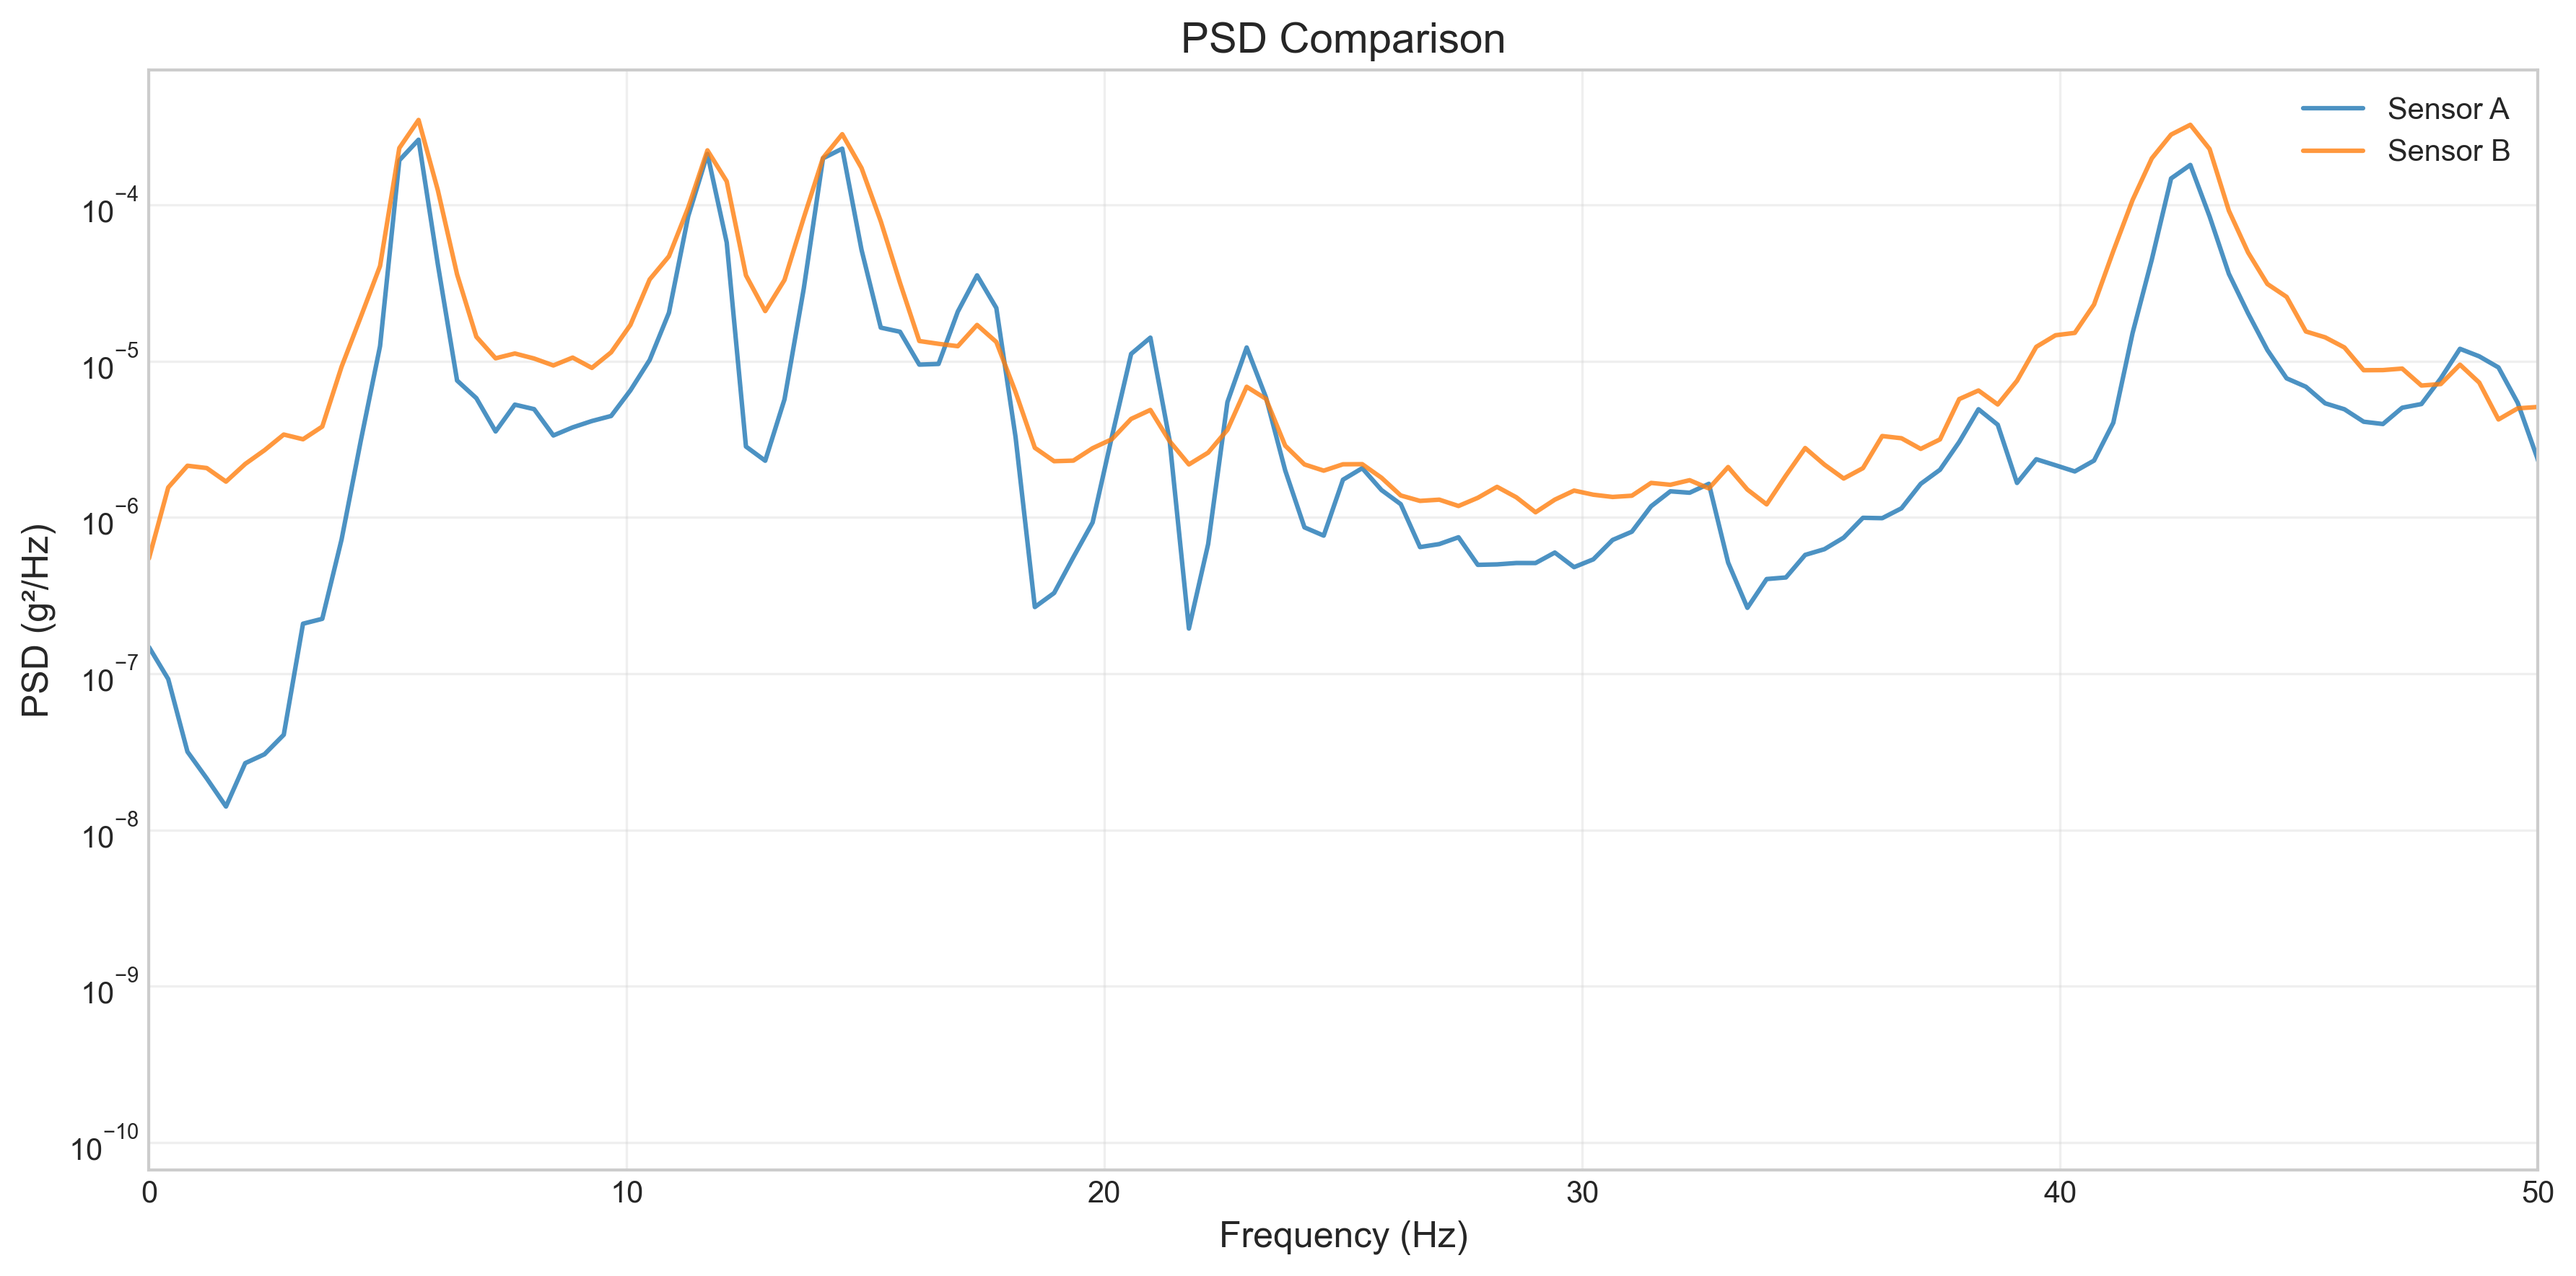
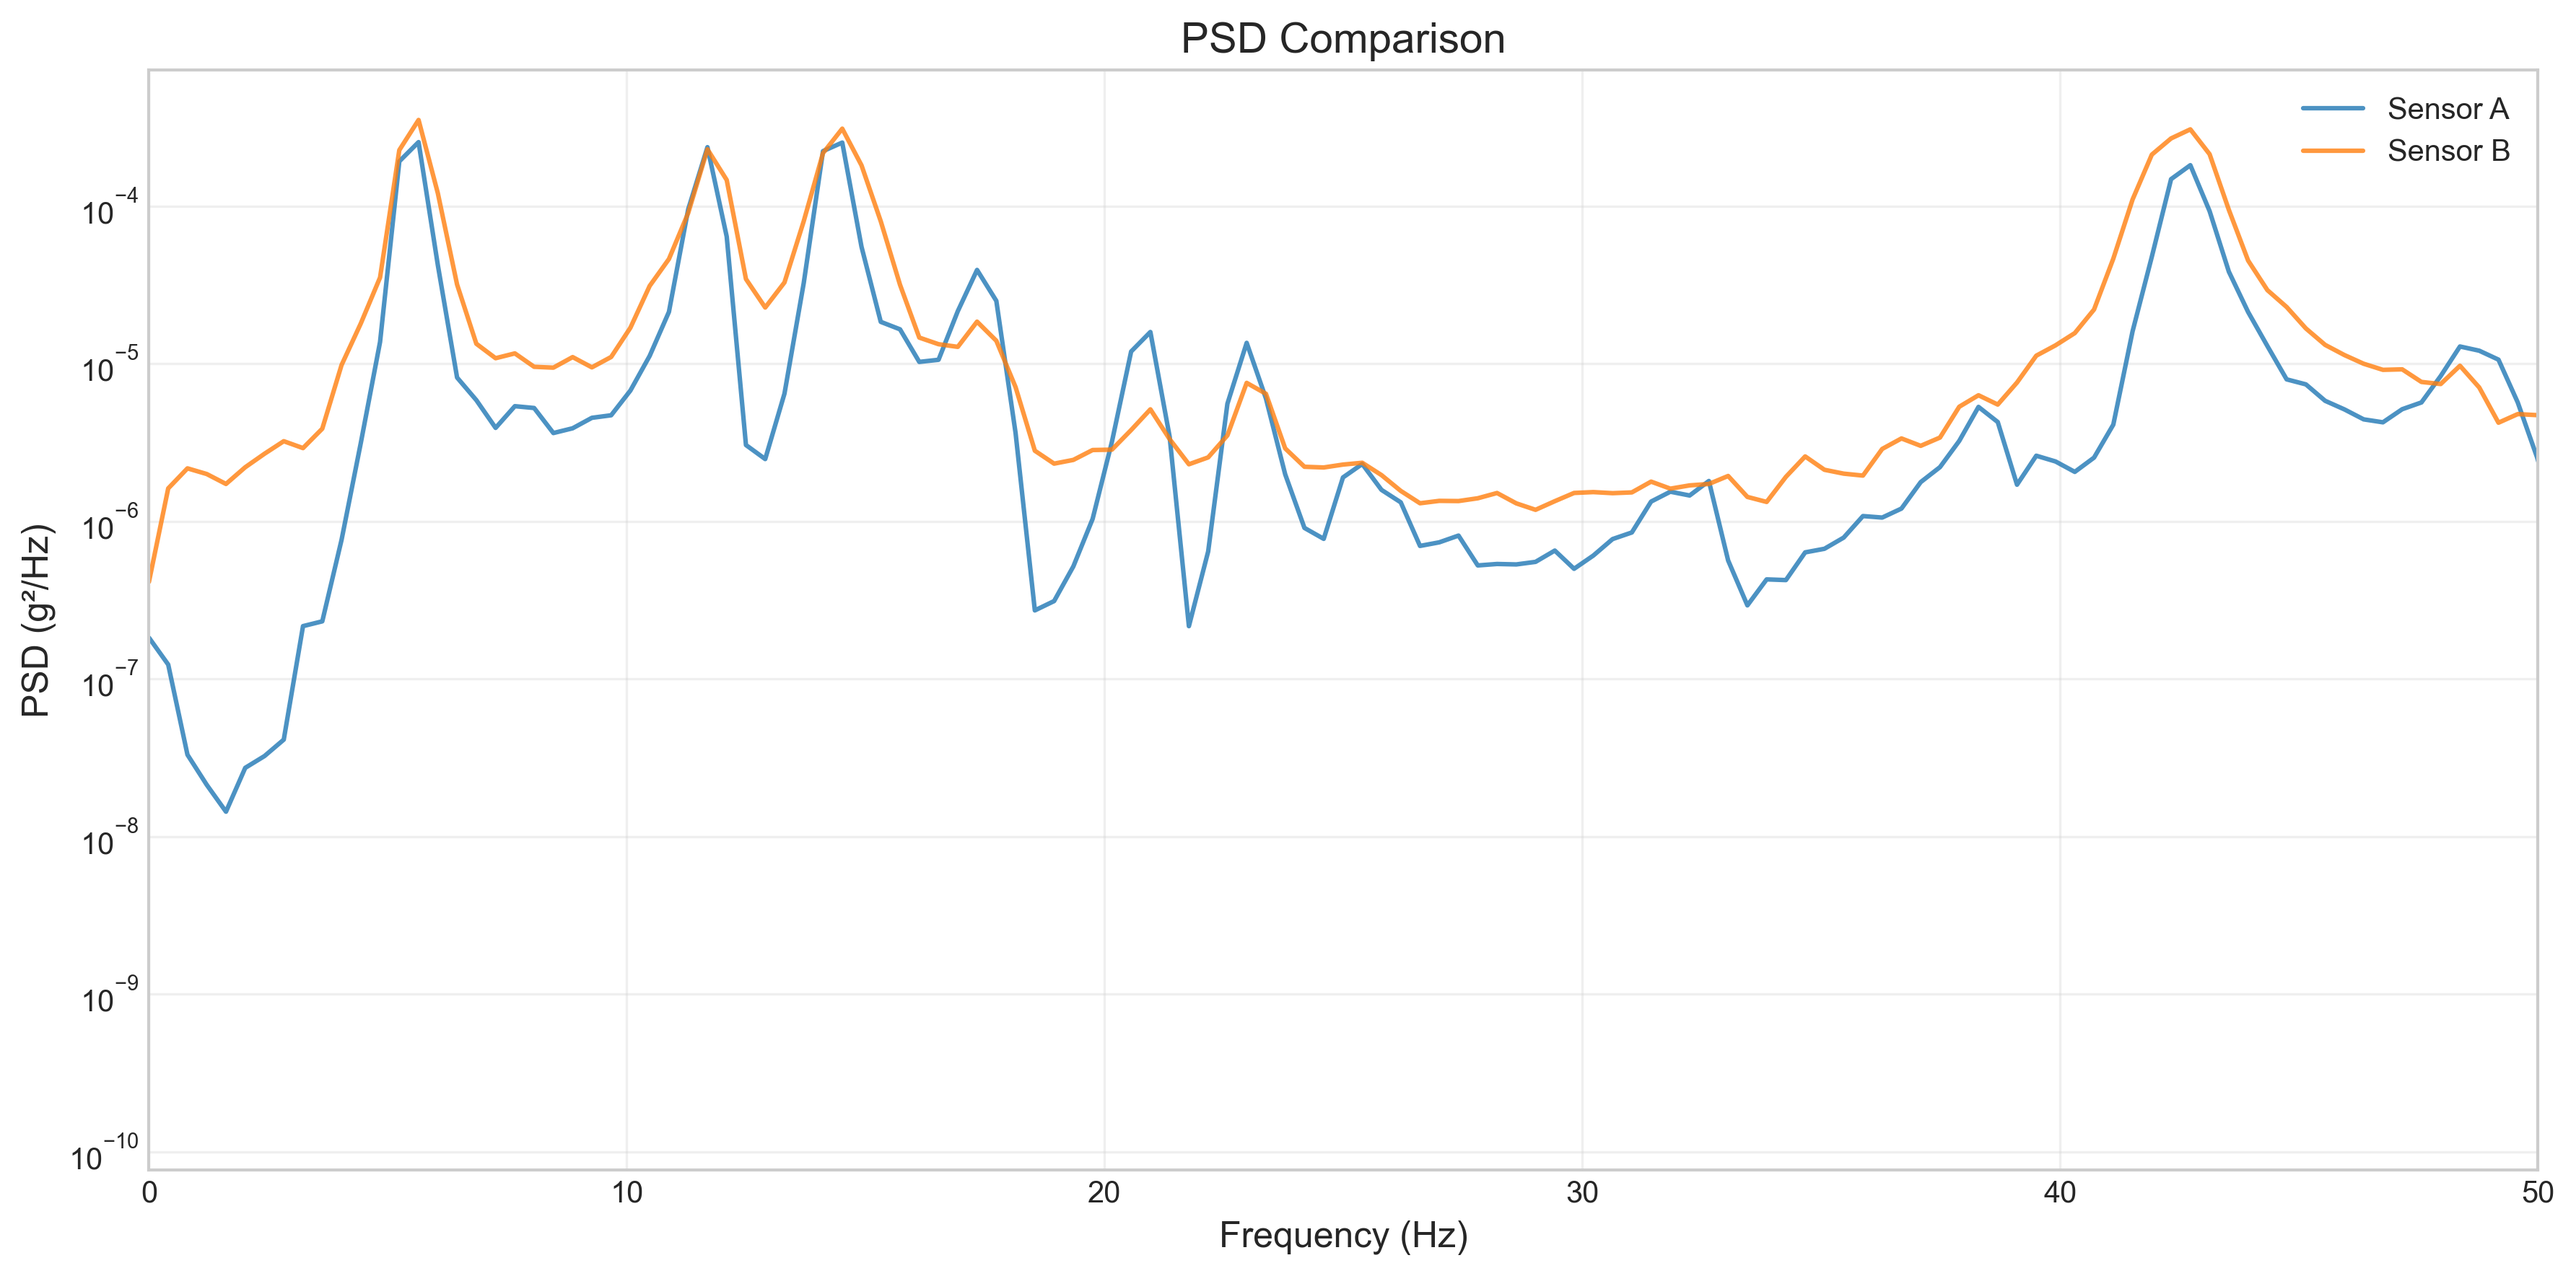
fix: correct timezone sync — sensor B epoch is UTC+7, sensor A is UTC
- load_data.py: add timezone_offset_hours to preprocess_adxl355
- run.py: pass timezone_offset_hours for sensor B from config
- configs: sensor_a tz_offset=0, sensor_b tz_offset=-7, window 02:23:30Z 100s

diff --git a/src/preprocessing/load_data.py b/src/preprocessing/load_data.py
@@ -30,16 +30,23 @@ def preprocess_adxl355(
     output_file: str | Path | None = None,
     apply_filter: bool = True,
     remove_dc_offset: bool = True,
+    timezone_offset_hours: int = 0,
     verbose: bool = True,
 ) -> pd.DataFrame:
     """
     Preprocess ADXL355 data.
+
+    timezone_offset_hours: hours to add to epoch to correct to UTC
+    (e.g. -7 if the device clock was set to UTC+7 instead of UTC).
     """
     input_file = Path(input_file)
     df = load_adxl355(input_file).copy()
 
     if verbose:
         print("[adxl355] input:", input_file)
+
+    if timezone_offset_hours != 0:
+        df["timestamp"] = df["timestamp"] + timezone_offset_hours * 3600
 
     df = add_utc_column(df, timestamp_col="timestamp", utc_col="datetime_utc")
     df = add_relative_time_column(df, timestamp_col="timestamp", relative_col="time_s")

diff --git a/scripts/run.py b/scripts/run.py
@@ -48,6 +48,7 @@ def run_pipeline(config_path: str = "configs/project.yaml", verbose: bool = True
             output_file=sensor_b_out,
             apply_filter=bool(b_opt.get("apply_filter", True)),
             remove_dc_offset=bool(b_opt.get("remove_dc_offset", True)),
+            timezone_offset_hours=int(b_opt.get("timezone_offset_hours", 0)),
             verbose=verbose,
         )
 

diff --git a/results/reports/comparison_pair_report.md b/results/reports/comparison_pair_report.md
@@ -1,6 +1,6 @@
 # Full Comparison Report: Sensor A Channel 3 (g) vs Sensor B accZ(g)
 
-Generated: 2026-03-01 22:25:13
+Generated: 2026-03-01 22:44:03
 
 ---
 
@@ -8,30 +8,30 @@ Generated: 2026-03-01 22:25:13
 
 | Metric | Sensor A | Sensor B | Difference |
 |--------|----------|----------|------------|
-| mean | 0.000002 | -0.000015 | 0.000017 |
-| std | 0.035937 | 0.051923 | -0.015986 |
-| rms | 0.035937 | 0.051923 | -0.015986 |
+| mean | -0.000021 | -0.000044 | 0.000024 |
+| std | 0.036750 | 0.052619 | -0.015869 |
+| rms | 0.036750 | 0.052619 | -0.015869 |
 | peak | 0.185764 | 0.413046 | -0.227282 |
-| peak_to_peak | 0.359800 | 0.823578 | -0.463777 |
-| crest_factor | 5.169206 | 7.954978 | -2.785772 |
+| peak_to_peak | 0.359800 | 0.754486 | -0.394686 |
+| crest_factor | 5.054777 | 7.849742 | -2.794966 |
 
 ## Correlation Analysis
 
-- Pearson r: 0.045229
-- R²: 0.002046
-- Spearman r: 0.043417
+- Pearson r: 0.048372
+- R²: 0.002340
+- Spearman r: 0.055424
 
 ## Error Metrics
 
-- MAE: 0.047146
-- RMSE: 0.061795
-- NRMSE: 0.171749
-- Max Error: 0.421887
+- MAE: 0.048088
+- RMSE: 0.062708
+- NRMSE: 0.174285
+- Max Error: 0.415410
 
 ## Frequency Domain Analysis
 
 | Metric | Sensor A | Sensor B |
 |--------|----------|----------|
-| dominant_frequency | 5.49 Hz | 5.49 Hz |
-| spectral_centroid | 39.55 Hz | 65.02 Hz |
-| median_frequency | 17.60 Hz | 43.03 Hz |
+| dominant_frequency | 11.64 Hz | 11.72 Hz |
+| spectral_centroid | 39.89 Hz | 65.37 Hz |
+| median_frequency | 17.77 Hz | 42.93 Hz |
